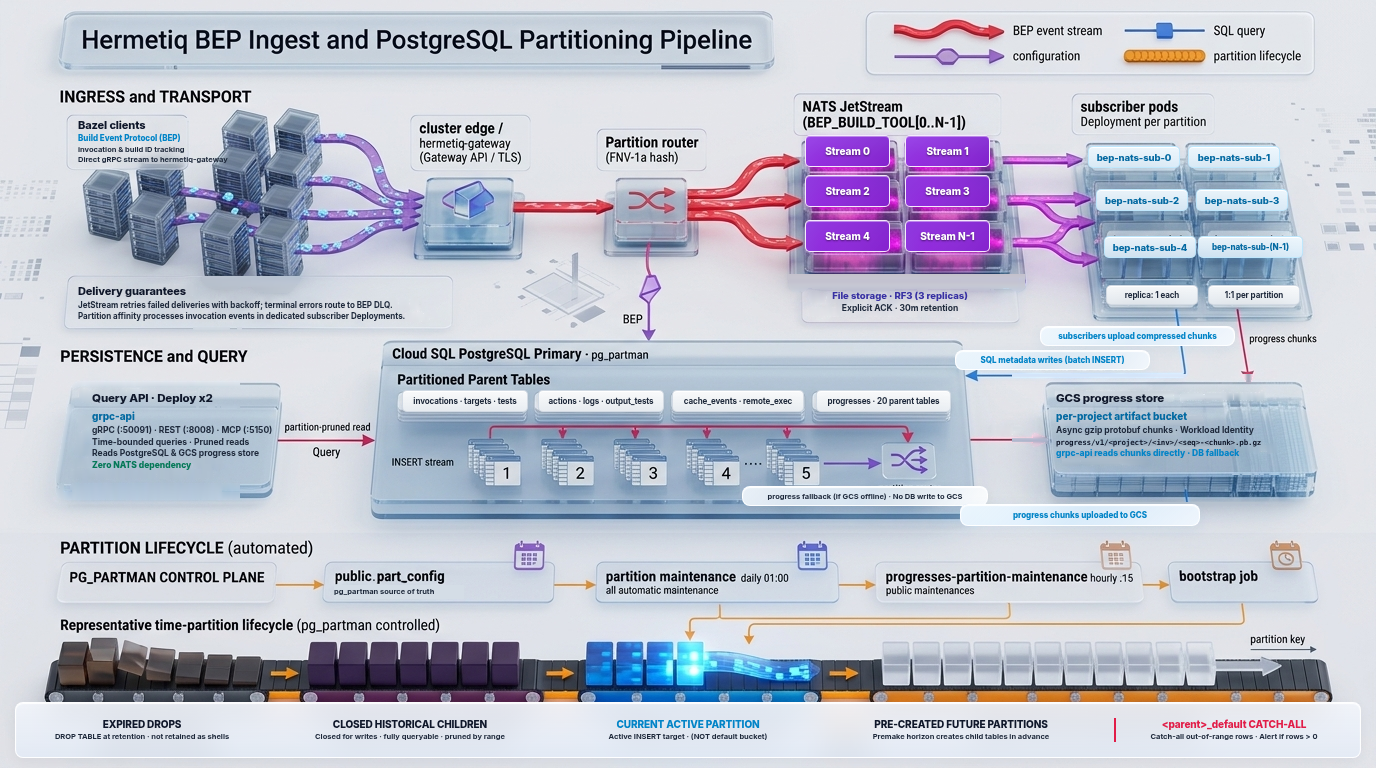
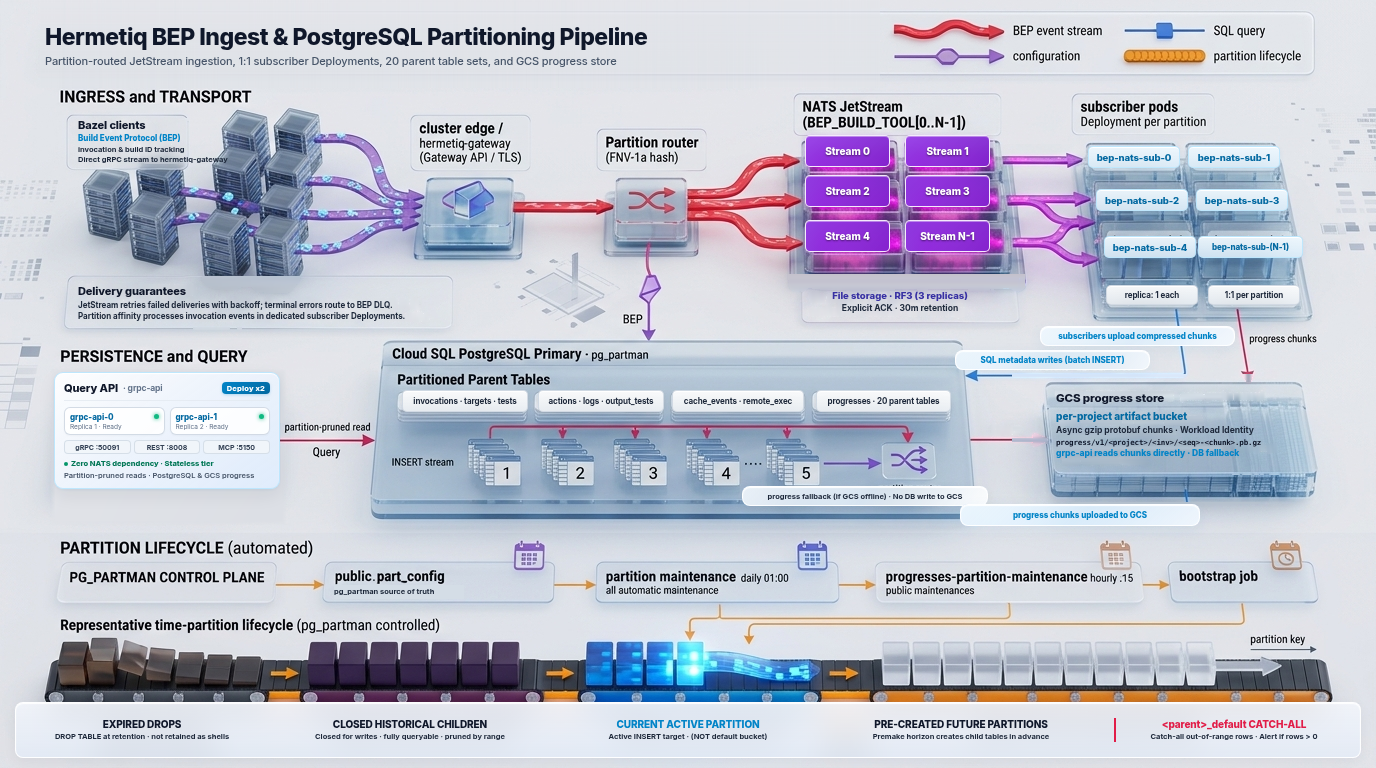
docs(diagrams): redo D2 title box and Query API container

Changed region(s): [[0.0312, 0.0, 0.5625, 0.0938], [0.0312, 0.4688, 0.2188, 0.6875]]

diff --git a/scripts/generate_diagrams.py b/scripts/generate_diagrams.py
@@ -260,6 +260,92 @@ def clean_upper_gcs_bucket(im):
     return im_clean
 
 
+def clean_d2_title_bar(im):
+    """
+    Dissolves the AI glass bar and baked-in title in Diagram 2,
+    restoring pristine top canvas background matching Diagrams 1 & 3.
+    """
+    im_clean = im.copy()
+    box = (40, 0, 880, 87)
+    w = box[2] - box[0]
+    h = box[3] - box[1]
+
+    top_row = [im.getpixel((box[0] + x, 0))[:3] for x in range(w)]
+    bottom_row = [im.getpixel((box[0] + x, 87))[:3] for x in range(w)]
+    left_col = [im.getpixel((box[0], y))[:3] for y in range(h)]
+    right_col = [im.getpixel((box[2] - 1, y))[:3] for y in range(h)]
+
+    canvas = Image.new("RGB", (w, h))
+    cpix = canvas.load()
+    for y in range(h):
+        v = y / (h - 1)
+        for x in range(w):
+            u = x / (w - 1)
+            lr, lg, lb = left_col[y]
+            rr, rg, rb = right_col[y]
+            hr = lr * (1 - u) + rr * u
+            hg = lg * (1 - u) + rg * u
+            hb = lb * (1 - u) + rb * u
+
+            tr, tg, tb = top_row[x]
+            br, bg, bb = bottom_row[x]
+            vr = tr * (1 - v) + br * v
+            vg = tg * (1 - v) + bg * v
+            vb = tb * (1 - v) + bb * v
+
+            cpix[x, y] = (int(0.5 * hr + 0.5 * vr), int(0.5 * hg + 0.5 * vg), int(0.5 * hb + 0.5 * vb))
+
+    im_clean.paste(canvas, (box[0], box[1]))
+    return im_clean
+
+
+def clean_d2_query_slab(im):
+    """
+    Dissolves the awkward AI-generated slanted blue glass slab under Query API,
+    restoring the pristine light container background and docking into the red query line.
+    """
+    im_clean = im.copy()
+    tl = (226, 228, 233)
+    tr = (222, 225, 230)
+    bl = (225, 227, 232)
+    br = (220, 223, 229)
+
+    y_start, y_end = 368, 526
+    x_start = 50
+
+    for y in range(y_start, y_end):
+        v = (y - y_start) / (y_end - 1 - y_start)
+        if 433 <= y <= 447:
+            max_x = 278
+        elif 423 <= y < 433:
+            max_x = 283
+        else:
+            max_x = 287
+
+        for x in range(x_start, max_x):
+            u = (x - x_start) / (287 - x_start)
+            r = int((1-u)*(1-v)*tl[0] + u*(1-v)*tr[0] + (1-u)*v*bl[0] + u*v*br[0])
+            g = int((1-u)*(1-v)*tl[1] + u*(1-v)*tr[1] + (1-u)*v*bl[1] + u*v*br[1])
+            b = int((1-u)*(1-v)*tl[2] + u*(1-v)*tr[2] + (1-u)*v*bl[2] + u*v*br[2])
+
+            dist_top = y - y_start
+            dist_bot = y_end - 1 - y
+            dist_left = x - x_start
+            dist_right = max_x - 1 - x
+            min_dist = min(dist_top, dist_bot, dist_left, dist_right)
+            
+            if min_dist < 5:
+                alpha = min_dist / 5.0
+                orig = im.getpixel((x, y))[:3]
+                r = int(orig[0] * (1 - alpha) + r * alpha)
+                g = int(orig[1] * (1 - alpha) + g * alpha)
+                b = int(orig[2] * (1 - alpha) + b * alpha)
+
+            im_clean.putpixel((x, y), (r, g, b))
+
+    return im_clean
+
+
 def prepare_clean_base_images():
     """Pre-processes base images by dissolving baked-in text in overlay areas."""
     # Prefer pristine fixed-images if present
@@ -280,14 +366,16 @@ def prepare_clean_base_images():
 
     # 2. Clean D2 base (bep-ingest-architecture-ai.png)
     d2_base = Image.open(BASE_DIR / "bep-ingest-architecture-ai.png")
+    # Dissolve 3D glass bar & baked title to restore clean keynote top canvas
+    d2_base = clean_d2_title_bar(d2_base)
+    # Dissolve awkward slanted blue glass slab under Query API
+    d2_base = clean_d2_query_slab(d2_base)
     # Clean Bazel clients inside card (70, 118, 195, 164)
     d2_base = inpaint_text_smooth(d2_base, (70, 118, 195, 164), lum_threshold=185)
     # Clean Delivery guarantees inside card (74, 276, 485, 340)
     d2_base = inpaint_text_smooth(d2_base, (74, 276, 485, 340), lum_threshold=185)
     # Clean File storage native card under JetStream: (776, 274, 1025, 318)
     d2_base = inpaint_text_smooth(d2_base, (776, 274, 1025, 318), lum_threshold=185)
-    # Clean Query API slab
-    d2_base = inpaint_text_smooth(d2_base, (50, 375, 240, 506), lum_threshold=185)
     # Clean GCS hybrid (slab face + ribs)
     d2_base = inpaint_gcs_hybrid(d2_base)
     # Clean query text above GCS arrow
@@ -473,6 +561,129 @@ SHARED_CSS = """
     border-radius: 8px;
     box-shadow: 0 4px 14px rgba(15, 23, 42, 0.05), inset 0 1px 1px rgba(255, 255, 255, 0.95);
   }
+
+  /* Keynote Header Title */
+  .diagram-title-box {
+    position: absolute;
+    z-index: 15;
+    top: 24px;
+    left: 45px;
+  }
+  .diagram-title {
+    font-size: 23px;
+    font-weight: 800;
+    color: #0f172a;
+    letter-spacing: -0.02em;
+    line-height: 1.15;
+  }
+  .diagram-subtitle {
+    font-size: 11px;
+    font-weight: 500;
+    color: #475569;
+    letter-spacing: -0.01em;
+    margin-top: 4px;
+  }
+
+  /* Sleek 3D Frosted Glass Query API Node */
+  .query-api-node {
+    position: absolute;
+    z-index: 12;
+    top: 372px;
+    left: 54px;
+    width: 226px;
+    background: linear-gradient(145deg, rgba(255, 255, 255, 0.92) 0%, rgba(240, 246, 254, 0.88) 45%, rgba(224, 238, 255, 0.82) 100%);
+    backdrop-filter: blur(16px) saturate(180%);
+    -webkit-backdrop-filter: blur(16px) saturate(180%);
+    border: 1px solid rgba(186, 230, 253, 0.95);
+    border-radius: 9px;
+    padding: 8px 9px 7px 9px;
+    box-shadow: 0 6px 18px rgba(15, 23, 42, 0.07), 0 1px 3px rgba(2, 132, 199, 0.08), inset 0 1px 1px rgba(255, 255, 255, 0.95);
+  }
+  .query-header {
+    display: flex;
+    align-items: center;
+    justify-content: space-between;
+    padding-bottom: 5px;
+    border-bottom: 1px solid rgba(226, 232, 240, 0.8);
+  }
+  .query-title {
+    font-size: 11px;
+    font-weight: 800;
+    color: #0f172a;
+    letter-spacing: -0.01em;
+    display: flex;
+    align-items: center;
+    gap: 5px;
+  }
+  .deploy-badge {
+    background: linear-gradient(135deg, #0284c7 0%, #0369a1 100%);
+    color: #ffffff;
+    font-size: 7.5px;
+    font-weight: 800;
+    padding: 1.5px 5px;
+    border-radius: 4px;
+    letter-spacing: 0.02em;
+    box-shadow: 0 1px 3px rgba(2, 132, 199, 0.25);
+  }
+  .pod-grid {
+    display: flex;
+    gap: 5px;
+    margin-top: 6px;
+  }
+  .pod-card {
+    flex: 1;
+    background: rgba(255, 255, 255, 0.85);
+    border: 1px solid rgba(203, 213, 225, 0.85);
+    border-radius: 6px;
+    padding: 3.5px 5px;
+    box-shadow: 0 1px 2px rgba(0, 0, 0, 0.03);
+  }
+  .pod-title {
+    font-size: 8px;
+    font-weight: 800;
+    color: #0369a1;
+    display: flex;
+    align-items: center;
+    justify-content: space-between;
+  }
+  .status-dot {
+    width: 5px;
+    height: 5px;
+    background: #10b981;
+    border-radius: 50%;
+    box-shadow: 0 0 4px #10b981;
+    display: inline-block;
+  }
+  .port-row {
+    display: flex;
+    gap: 3px;
+    margin-top: 5px;
+  }
+  .port-chip {
+    flex: 1;
+    text-align: center;
+    background: rgba(241, 245, 249, 0.9);
+    border: 1px solid rgba(203, 213, 225, 0.7);
+    border-radius: 4px;
+    font-size: 7px;
+    font-weight: 700;
+    color: #334155;
+    padding: 1.5px 0;
+  }
+  .query-meta {
+    margin-top: 5px;
+    font-size: 7.5px;
+    line-height: 1.35;
+    color: #1e293b;
+  }
+  .invariant-badge {
+    font-size: 7.5px;
+    font-weight: 800;
+    color: #047857;
+    display: flex;
+    align-items: center;
+    gap: 3px;
+  }
 """
 
 
@@ -568,6 +779,12 @@ def build_d2_html(bg_path: Path) -> str:
 <body>
   <img class="bg" src="{bg_path}">
 
+  <!-- 0. Redone Title Box: Clean Keynote Typography matching D1 and D3 -->
+  <div class="diagram-title-box">
+    <div class="diagram-title">Hermetiq BEP Ingest & PostgreSQL Partitioning Pipeline</div>
+    <div class="diagram-subtitle">Partition-routed JetStream ingestion, 1:1 subscriber Deployments, 20 parent table sets, and GCS progress store</div>
+  </div>
+
   <!-- 1. Bazel Clients: Directly in native container, no textbox -->
   <div class="direct-card" style="top: 118px; left: 78px; width: 195px;">
     <div class="card-title">Bazel clients</div>
@@ -619,15 +836,50 @@ def build_d2_html(bg_path: Path) -> str:
     <span style="font-size: 8px; font-weight: 800; color: #0284c7;">SQL metadata writes (batch INSERT)</span>
   </div>
 
-  <!-- 5. Query API: Directly in native glass slab container, seated down & right, no textbox -->
-  <div class="direct-card" style="top: 391px; left: 92px; width: 200px;">
-    <div style="font-size: 11.5px; font-weight: 800; color: #0f172a; letter-spacing: -0.01em;">Query API · Deploy x2</div>
-    <div style="font-size: 10px; font-weight: 800; color: #0369a1; margin-top: 5px;">grpc-api</div>
-    <div style="font-size: 8.5px; line-height: 1.38; font-weight: 700; color: #1e293b; margin-top: 3px;">
-      <span style="white-space: nowrap;">gRPC (:50091) · REST (:8008) · MCP (:5150)</span><br>
-      Time-bounded queries · Pruned reads<br>
-      Reads PostgreSQL & GCS progress store<br>
-      <span style="font-weight: 800; color: #047857;">Zero NATS dependency</span>
+  <!-- 5. Redone Query API Node: Sleek 3D Frosted Glass Container with Dual Pod Replicas -->
+  <div class="query-api-node">
+    <div class="query-header">
+      <div class="query-title">
+        <span>Query API</span>
+        <span style="font-size: 8.5px; font-weight: 700; color: #64748b;">· grpc-api</span>
+      </div>
+      <div class="deploy-badge">Deploy x2</div>
+    </div>
+
+    <!-- Dual Pod Replica Tier -->
+    <div class="pod-grid">
+      <div class="pod-card">
+        <div class="pod-title">
+          <span>grpc-api-0</span>
+          <span class="status-dot"></span>
+        </div>
+        <div style="font-size: 6.5px; color: #64748b; margin-top: 1px;">Replica 1 · Ready</div>
+      </div>
+      <div class="pod-card">
+        <div class="pod-title">
+          <span>grpc-api-1</span>
+          <span class="status-dot"></span>
+        </div>
+        <div style="font-size: 6.5px; color: #64748b; margin-top: 1px;">Replica 2 · Ready</div>
+      </div>
+    </div>
+
+    <!-- Protocols & Ports -->
+    <div class="port-row">
+      <div class="port-chip">gRPC :50091</div>
+      <div class="port-chip">REST :8008</div>
+      <div class="port-chip">MCP :5150</div>
+    </div>
+
+    <!-- Invariants & Responsibilities -->
+    <div class="query-meta">
+      <div class="invariant-badge">
+        <span style="display: inline-block; width: 4px; height: 4px; background: #059669; border-radius: 50%;"></span>
+        <span>Zero NATS dependency · Stateless tier</span>
+      </div>
+      <div style="color: #475569; font-weight: 600; margin-top: 2px;">
+        Partition-pruned reads · PostgreSQL & GCS progress
+      </div>
     </div>
   </div>
 
